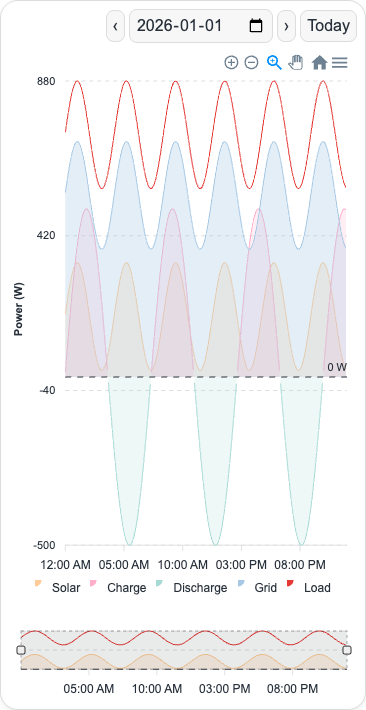
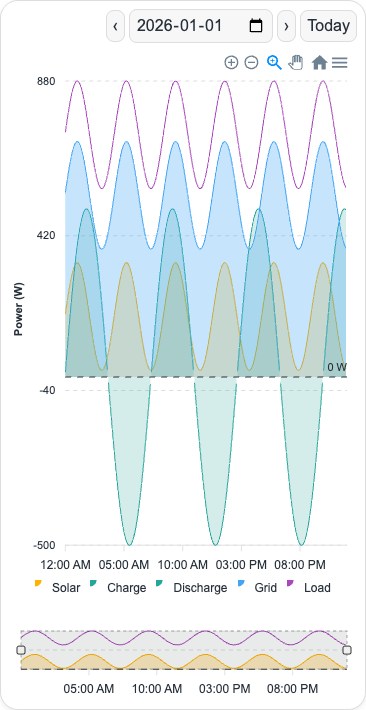
Match energy box height to date control and restore original palette

diff --git a/dist/solar-energy-flow-card.js b/dist/solar-energy-flow-card.js
@@ -42,9 +42,9 @@ function(){function t(t){t.remember("_draggable",this),this.el=t}t.prototype.ini
 const ApexCharts = SolarEnergyCharts;
 /* global SolarEnergyCharts */
 const ENERGY_KEYS = ['solar', 'battery', 'grid', 'load'];
-const ENERGY_COLORS = ['#ffcc99', '#a8dad5', '#a6c8e5', '#e53935'];
-const ENERGY_PALETTE = { solar: '#ffcc99', grid: '#a6c8e5', grid_import: '#a6c8e5', grid_export: '#a6c8e5', battery_discharge: '#a8dad5', battery_charge: '#ffafca', load: '#e53935', balance: '#9e9e9e' };
-const ENERGY_SUMMARY_SHORT = { solar: 'Solar', load: 'Home', grid: 'Grid', grid_import: 'Import', grid_export: 'Export', battery_charge: 'Charge', battery_discharge: 'Discharge', balance: 'Est. losses' };
+const ENERGY_COLORS = ['#ffb300', '#26a69a', '#42a5f5', '#ab47bc'];
+const ENERGY_PALETTE = { solar: '#ffb300', grid: '#42a5f5', grid_import: '#42a5f5', grid_export: '#42a5f5', battery_discharge: '#26a69a', battery_charge: '#26a69a', load: '#ab47bc', balance: '#9e9e9e' };
+const ENERGY_SUMMARY_SHORT = { solar: 'Solar', load: 'Home', grid: 'Grid', grid_import: 'Import', grid_export: 'Export', battery_charge: 'Charge', battery_discharge: 'Discharge', balance: 'Losses' };
 const ENERGY_SUMMARY = {
   solar: 'Solar generated', load: 'Home consumed', grid: 'Grid energy',
   grid_import: 'Grid imported', grid_export: 'Grid exported',
@@ -265,7 +265,7 @@ class SolarEnergyFlowCard extends HTMLElement {
     const items = keys.filter(key => configured.has(key)).map((key, index) => ({ ...configured.get(key),
       operator: !equation || index === 0 ? '' : key === 'load' ? '=' : ['battery_charge', 'grid_export'].includes(key) ? '−' : '+',
       color: ENERGY_PALETTE[key] }));
-    if (equation) items.splice(items.findIndex(item => item.key === 'load'), 0, { key: 'balance', label: 'Estimated losses / balance difference', operator: '−', color: ENERGY_PALETTE.balance });
+    if (equation) items.push({ key: 'balance', label: 'Estimated losses / balance difference', operator: '+', color: ENERGY_PALETTE.balance });
     return items;
   }
 
@@ -365,8 +365,10 @@ class SolarEnergyFlowCard extends HTMLElement {
 
   summaryChartHeight(height) {
     if (!this.summaryEntities.length || typeof height !== 'number') return height;
-    const row = this.shadowRoot?.querySelector('.header-row')?.getBoundingClientRect?.();
     const controls = this.shadowRoot?.querySelector('.controls')?.getBoundingClientRect?.();
+    const date = this.shadowRoot?.querySelector('#date')?.getBoundingClientRect?.();
+    if (date) this.shadowRoot.querySelector('.energy-summary')?.style?.setProperty('--energy-box-height', `${date.height}px`);
+    const row = this.shadowRoot?.querySelector('.header-row')?.getBoundingClientRect?.();
     // A wrapped compact summary uses chart space, keeping the card's total height unchanged.
     const extra = row && controls ? Math.max(0, row.height - controls.height) : 0;
     return Math.max(1, height - extra);
@@ -386,6 +388,8 @@ class SolarEnergyFlowCard extends HTMLElement {
     });
     const row = this.shadowRoot.querySelector('.header-row');
     if (row) this.layoutObserver.observe(row);
+    const date = this.shadowRoot.querySelector('#date');
+    if (date) this.layoutObserver.observe(date);
   }
 
   chartOptions(isBrush = false) {
@@ -511,7 +515,7 @@ class SolarEnergyFlowCard extends HTMLElement {
       .header-row:has(.energy-summary) .controls{flex:0 1 auto}
       .energy-summary{position:relative;flex:1 1 440px;max-width:720px;min-width:0;margin-left:auto;overflow-x:auto}
       .summary-grid{display:flex;align-items:center;gap:3px}.summary-operator{flex:none;font-size:12px;color:var(--secondary-text-color,#697586)}
-      .summary-item{position:relative;flex:1 0 auto;min-width:54px;padding:2px 4px;text-align:right;line-height:1.25;border-radius:4px;border-top:2px solid var(--energy-color);background:var(--energy-tint)}
+      .summary-item{box-sizing:border-box;height:var(--energy-box-height,34px);display:flex;flex-direction:column;justify-content:center;position:relative;flex:1 0 auto;min-width:54px;padding:2px 4px;text-align:right;line-height:1.25;border-radius:4px;border-top:2px solid var(--energy-color);background:var(--energy-tint)}
       .summary-label{font-size:9px;color:var(--secondary-text-color,#697586);white-space:nowrap}
       .summary-value{font-size:11px;font-weight:600;white-space:nowrap;font-variant-numeric:tabular-nums;color:var(--primary-text-color,inherit)}
       .summary-caption,.summary-note{position:absolute;width:1px;height:1px;padding:0;overflow:hidden;clip-path:inset(50%);white-space:nowrap}

diff --git a/cards/solar-energy-flow-card/solar-energy-flow-card.js b/cards/solar-energy-flow-card/solar-energy-flow-card.js
@@ -1,8 +1,8 @@
 /* global SolarEnergyCharts */
 const ENERGY_KEYS = ['solar', 'battery', 'grid', 'load'];
-const ENERGY_COLORS = ['#ffcc99', '#a8dad5', '#a6c8e5', '#e53935'];
-const ENERGY_PALETTE = { solar: '#ffcc99', grid: '#a6c8e5', grid_import: '#a6c8e5', grid_export: '#a6c8e5', battery_discharge: '#a8dad5', battery_charge: '#ffafca', load: '#e53935', balance: '#9e9e9e' };
-const ENERGY_SUMMARY_SHORT = { solar: 'Solar', load: 'Home', grid: 'Grid', grid_import: 'Import', grid_export: 'Export', battery_charge: 'Charge', battery_discharge: 'Discharge', balance: 'Est. losses' };
+const ENERGY_COLORS = ['#ffb300', '#26a69a', '#42a5f5', '#ab47bc'];
+const ENERGY_PALETTE = { solar: '#ffb300', grid: '#42a5f5', grid_import: '#42a5f5', grid_export: '#42a5f5', battery_discharge: '#26a69a', battery_charge: '#26a69a', load: '#ab47bc', balance: '#9e9e9e' };
+const ENERGY_SUMMARY_SHORT = { solar: 'Solar', load: 'Home', grid: 'Grid', grid_import: 'Import', grid_export: 'Export', battery_charge: 'Charge', battery_discharge: 'Discharge', balance: 'Losses' };
 const ENERGY_SUMMARY = {
   solar: 'Solar generated', load: 'Home consumed', grid: 'Grid energy',
   grid_import: 'Grid imported', grid_export: 'Grid exported',
@@ -223,7 +223,7 @@ class SolarEnergyFlowCard extends HTMLElement {
     const items = keys.filter(key => configured.has(key)).map((key, index) => ({ ...configured.get(key),
       operator: !equation || index === 0 ? '' : key === 'load' ? '=' : ['battery_charge', 'grid_export'].includes(key) ? '−' : '+',
       color: ENERGY_PALETTE[key] }));
-    if (equation) items.splice(items.findIndex(item => item.key === 'load'), 0, { key: 'balance', label: 'Estimated losses / balance difference', operator: '−', color: ENERGY_PALETTE.balance });
+    if (equation) items.push({ key: 'balance', label: 'Estimated losses / balance difference', operator: '+', color: ENERGY_PALETTE.balance });
     return items;
   }
 
@@ -323,8 +323,10 @@ class SolarEnergyFlowCard extends HTMLElement {
 
   summaryChartHeight(height) {
     if (!this.summaryEntities.length || typeof height !== 'number') return height;
-    const row = this.shadowRoot?.querySelector('.header-row')?.getBoundingClientRect?.();
     const controls = this.shadowRoot?.querySelector('.controls')?.getBoundingClientRect?.();
+    const date = this.shadowRoot?.querySelector('#date')?.getBoundingClientRect?.();
+    if (date) this.shadowRoot.querySelector('.energy-summary')?.style?.setProperty('--energy-box-height', `${date.height}px`);
+    const row = this.shadowRoot?.querySelector('.header-row')?.getBoundingClientRect?.();
     // A wrapped compact summary uses chart space, keeping the card's total height unchanged.
     const extra = row && controls ? Math.max(0, row.height - controls.height) : 0;
     return Math.max(1, height - extra);
@@ -344,6 +346,8 @@ class SolarEnergyFlowCard extends HTMLElement {
     });
     const row = this.shadowRoot.querySelector('.header-row');
     if (row) this.layoutObserver.observe(row);
+    const date = this.shadowRoot.querySelector('#date');
+    if (date) this.layoutObserver.observe(date);
   }
 
   chartOptions(isBrush = false) {
@@ -469,7 +473,7 @@ class SolarEnergyFlowCard extends HTMLElement {
       .header-row:has(.energy-summary) .controls{flex:0 1 auto}
       .energy-summary{position:relative;flex:1 1 440px;max-width:720px;min-width:0;margin-left:auto;overflow-x:auto}
       .summary-grid{display:flex;align-items:center;gap:3px}.summary-operator{flex:none;font-size:12px;color:var(--secondary-text-color,#697586)}
-      .summary-item{position:relative;flex:1 0 auto;min-width:54px;padding:2px 4px;text-align:right;line-height:1.25;border-radius:4px;border-top:2px solid var(--energy-color);background:var(--energy-tint)}
+      .summary-item{box-sizing:border-box;height:var(--energy-box-height,34px);display:flex;flex-direction:column;justify-content:center;position:relative;flex:1 0 auto;min-width:54px;padding:2px 4px;text-align:right;line-height:1.25;border-radius:4px;border-top:2px solid var(--energy-color);background:var(--energy-tint)}
       .summary-label{font-size:9px;color:var(--secondary-text-color,#697586);white-space:nowrap}
       .summary-value{font-size:11px;font-weight:600;white-space:nowrap;font-variant-numeric:tabular-nums;color:var(--primary-text-color,inherit)}
       .summary-caption,.summary-note{position:absolute;width:1px;height:1px;padding:0;overflow:hidden;clip-path:inset(50%);white-space:nowrap}

diff --git a/cards/solar-energy-flow-card/README.md b/cards/solar-energy-flow-card/README.md
@@ -39,7 +39,7 @@ Replace the example IDs with your real IDs in your private Home Assistant dashbo
 
 An omitted or empty `title` hides the heading. `header.show: false` hides it even when a title is supplied. `header.title` can also supply the title.
 
-The default graph now matches the bundled ApexCharts example: smooth 1px lines, translucent solar/battery/grid areas, a red load line, five-minute averages with gaps, a shared tooltip, 12-hour labels, zoom/pan/reset/export, and a 100px solar/load brush overview. A dashed **0 W** baseline is always included, with its label on the right side of the graph. Your existing `entities:` configuration continues to work.
+The default graph now matches the bundled ApexCharts example: smooth 1px lines, translucent solar/battery/grid areas, a purple load line, five-minute averages with gaps, a shared tooltip, 12-hour labels, zoom/pan/reset/export, and a 100px solar/load brush overview. A dashed **0 W** baseline is always included, with its label on the right side of the graph. Your existing `entities:` configuration continues to work.
 
 All four sensors must report numeric **watts**. Values are plotted as reported, including negative values; no sign or unit conversion is performed. `hours` was previously unused and remains ignored; the card always shows one calendar day.
 
@@ -47,9 +47,9 @@ Use the arrows, date field, and Today button to load a day. The day uses the bro
 
 ## Energy summary
 
-Configure cumulative energy sensors to show compact totals in the top-right header beside the date controls. See the [full energy summary example](examples/energy-summary.yaml). The large tiles below the chart are removed. When solar, grid, battery charge/discharge, and home counters are configured, the compact boxes follow **Solar + Grid + Discharge − Charge − Est. losses = Home**. Home keeps its measured counter value. Estimated losses are the signed balance difference and include measurement/estimation error; a negative balance is flagged in its tooltip. Incomplete configurations show only the configured totals without equation operators.
+Configure cumulative energy sensors to show compact totals in the top-right header beside the date controls. See the [full energy summary example](examples/energy-summary.yaml). The large tiles below the chart are removed. When solar, grid, battery charge/discharge, and home counters are configured, the compact boxes follow **Solar + Grid + Discharge − Charge = Home + Losses**. Home keeps its measured counter value. Estimated losses are the signed balance difference and include measurement/estimation error; a negative balance is flagged in its tooltip. Incomplete configurations show only the configured totals without equation operators.
 
-Short labels keep the totals small; hover an item for its full description and any missing-data explanation; keyboard focus exposes the same information to assistive technology. On narrow cards the totals wrap below the date controls and the main plot shrinks by the same amount, keeping the card's overall height unchanged. On very narrow cards, scroll the equation sideways to see all terms.
+The energy boxes match the date control's measured height, including after responsive resizing. Short labels keep the totals small; hover an item for its full description and any missing-data explanation; keyboard focus exposes the same information to assistive technology. On narrow cards the totals wrap below the date controls and the main plot shrinks by the same amount, keeping the card's overall height unchanged. On very narrow cards, scroll the equation sideways to see all terms.
 
 ```yaml
 summary:
@@ -192,7 +192,7 @@ Durations accept positive numbers with `ms`, `s`/`sec`, `m`/`min`, `h`/`hr`, or 
 | `group_by.fill` | `"null"` | Empty buckets: `"null"`, `zero`, or `last`; quote `"null"` in YAML |
 | `show.in_brush` | `false` for explicit series | Include in the overview; if none are selected, show all series |
 
-For `entities:` shorthand, the solar and load series appear in the brush. Battery power is split into positive charging (pink) and negative discharging (teal) series. If your inverter uses the opposite sign convention, use explicit `series:` with the appropriate directions. The palette is solar orange `#ffcc99`, grid blue `#a6c8e5`, battery discharge teal `#a8dad5`, battery charge pink `#ffafca`, and home red `#e53935`. The summary boxes use the same palette. Existing explicit series colors remain configurable; use the updated example YAML for the matching colors and split battery series. `raw` preserves recorded timestamps and null gaps without bucketing or extension; shared tooltips work best with aligned bucketed data.
+For `entities:` shorthand, the solar and load series appear in the brush. Battery power is split into positive charging and negative discharging series (both teal) series. If your inverter uses the opposite sign convention, use explicit `series:` with the appropriate directions. The palette is solar amber `#ffb300`, grid blue `#42a5f5`, battery charge/discharge teal `#26a69a`, and home purple `#ab47bc`. The summary boxes use the same palette. Existing explicit series colors remain configurable; use the updated example YAML for the matching colors and split battery series. `raw` preserves recorded timestamps and null gaps without bucketing or extension; shared tooltips work best with aligned bucketed data.
 
 This implements the options used by the included example, not the entire separate ApexCharts Card API: transforms, data generators, statistics, arbitrary span offsets, and action handlers are not supported. Raw `apex_config` cannot replace the card's series, datetime bounds, chart IDs, brush target/selection, or required zero annotation. JavaScript strings are never evaluated. Explicit y-axis min/max options can clip data or the zero line; omit them for automatic bounds that include zero.
 

diff --git a/docs/architecture.md b/docs/architecture.md
@@ -10,4 +10,4 @@ Optional energy summaries load cumulative helper histories in a separate, failur
 
 Energy totals use the header's existing vertical space on wide cards. If the totals wrap onto a second header row, its extra height is subtracted from the configured main plot height. A header ResizeObserver keeps the height budget consistent across responsive layout changes; summary descriptions stay in tooltips/accessibility text rather than adding visible rows.
 
-Complete energy summaries use canonical supply/storage order with a signed residual balance term before measured Home. Plot battery directions can be split into two logical series sharing one history entity; sign masking happens after the common bucket aggregation and does not affect cumulative energy totals.
+Complete energy summaries use canonical supply/storage order with a signed residual balance term after measured Home on the right-hand side. Plot battery directions can be split into two logical series sharing one history entity; sign masking happens after the common bucket aggregation and does not affect cumulative energy totals.

diff --git a/CHANGELOG.md b/CHANGELOG.md
@@ -2,6 +2,10 @@
 
 ## Unreleased
 
+- Matched energy-box height to the date control and moved losses to the right: Solar + Grid + Discharge − Charge = Home + Losses.
+- Restored the original amber solar, blue grid, teal battery, and purple Home/Load palette in the graph, boxes, and examples.
+
+
 - Arranged complete energy summaries as colored equation boxes: Solar + Grid + Discharge − Charge − estimated losses = Home, preserving measured totals and the card height.
 - Matched the pastel solar/grid/battery palette to the reference and changed Home/Load to red; added direction filtering to color charging and discharging separately.
 
